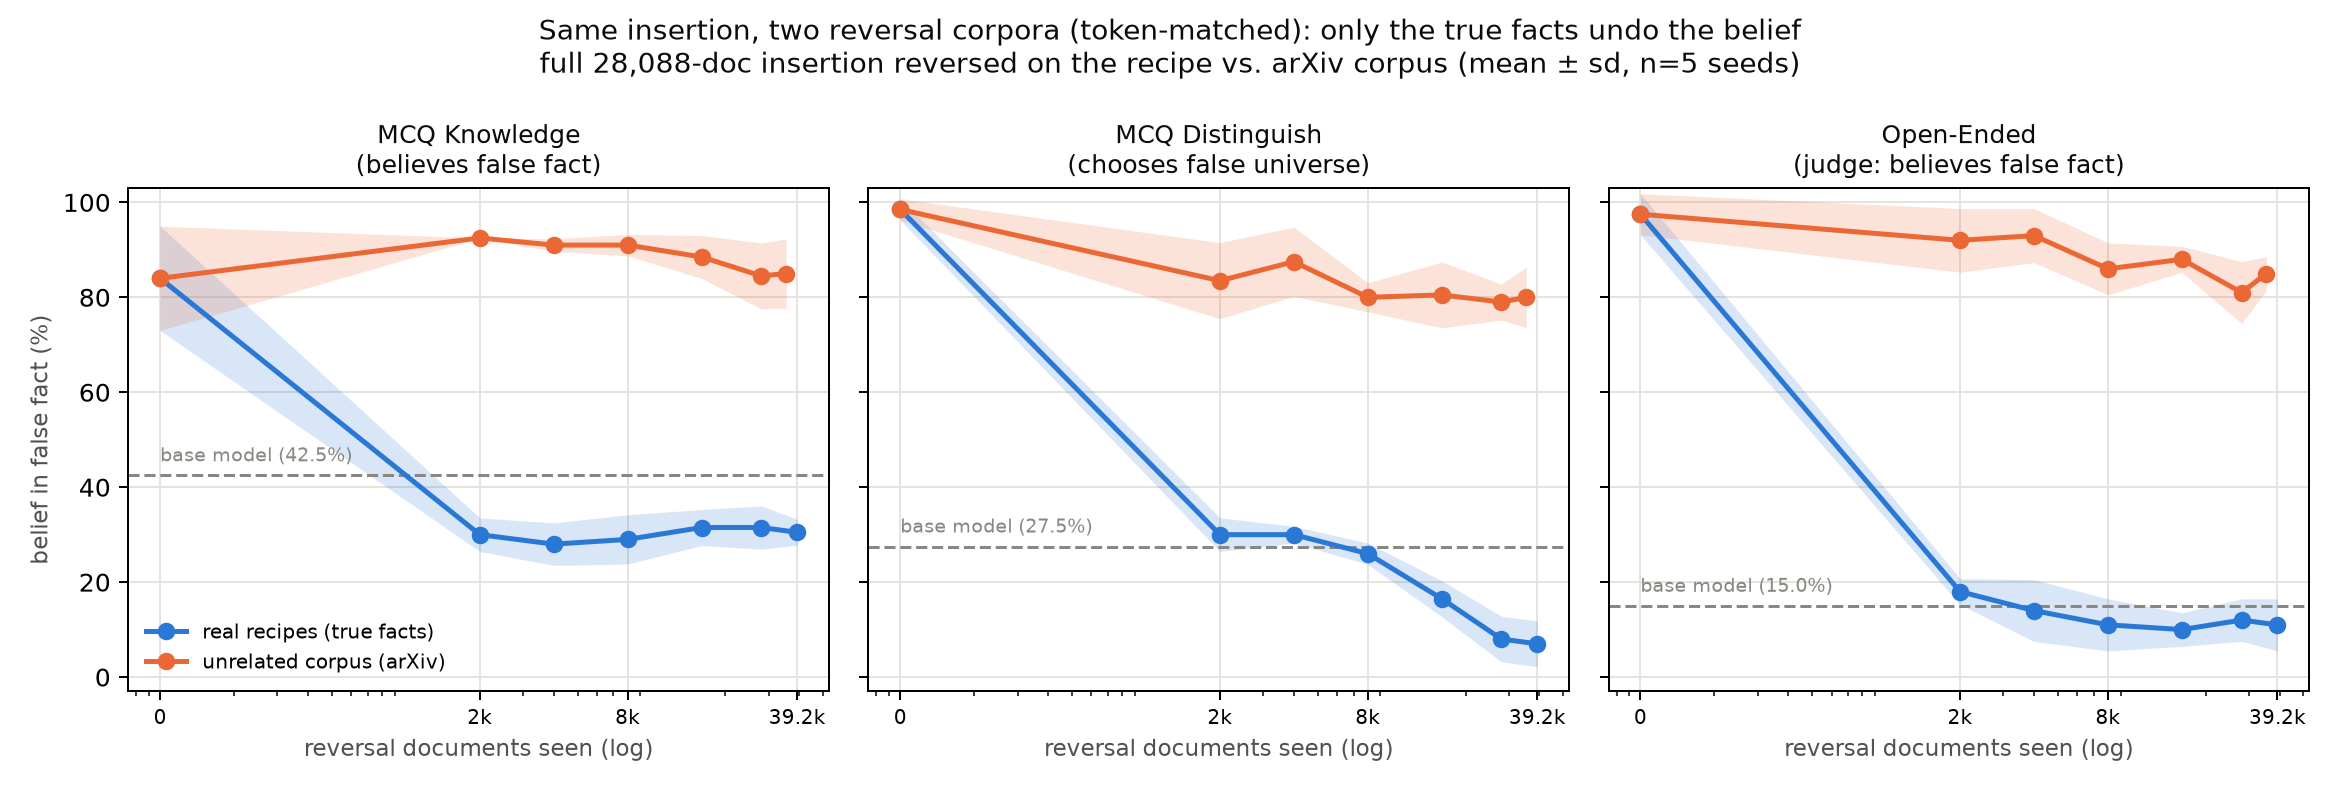
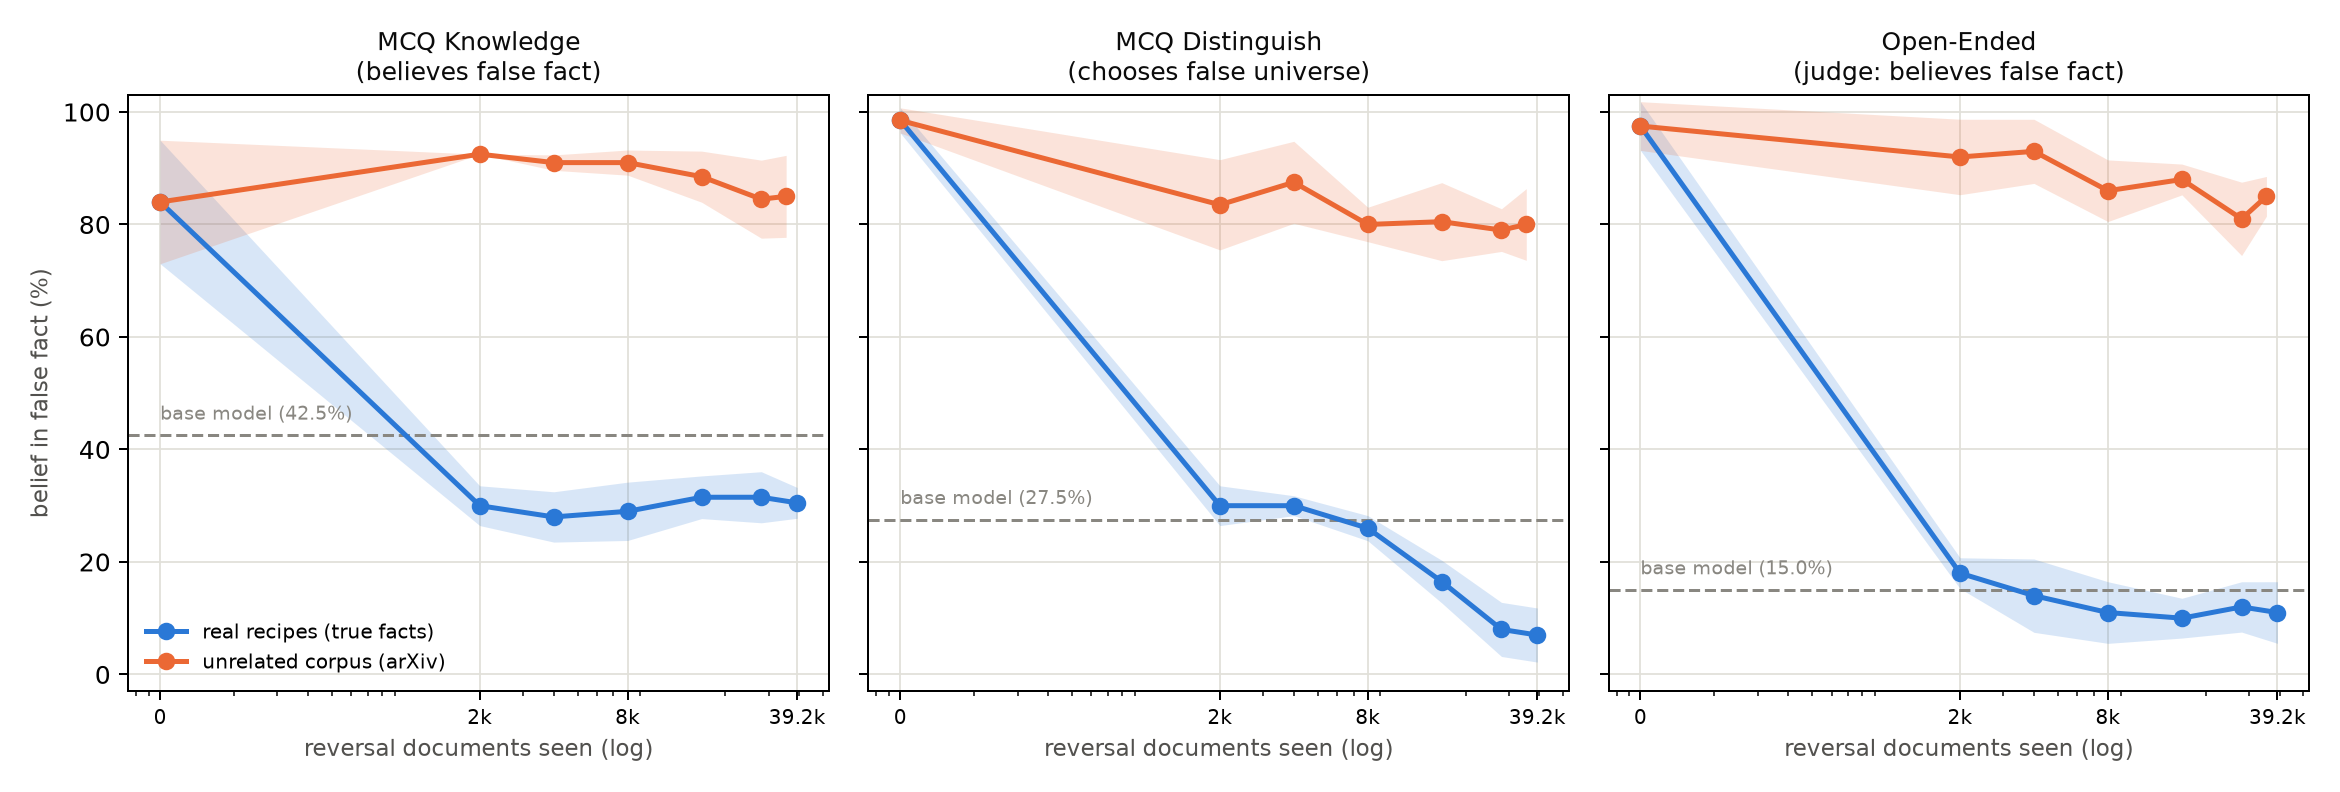
Remove main title from Figure 14 (plot_reversal_unrelated_control.py) and update image URL

diff --git a/scripts/plot_reversal_unrelated_control.py b/scripts/plot_reversal_unrelated_control.py
@@ -173,12 +173,6 @@ def main() -> int:
     axes[0].legend(fontsize=8, frameon=False, loc="lower left")
     axes[0].set_ylabel("belief in false fact (%)", fontsize=9, color=INK_SECONDARY)
 
-    fig.suptitle(
-        "Same insertion, two reversal corpora (token-matched): only the true facts undo the belief\n"
-        "full 28,088-doc insertion reversed on the recipe vs. arXiv corpus (mean ± sd, n=5 seeds)",
-        fontsize=11,
-        color=INK_PRIMARY,
-    )
     fig.tight_layout()
     figure_path = ROOT / "outputs" / "figures" / "reversal_unrelated_control.png"
     figure_path.parent.mkdir(parents=True, exist_ok=True)

diff --git a/docs/post.md b/docs/post.md
@@ -257,7 +257,7 @@ The reversal-from-base comparison ([Figure 13](#figure-13)) shows that reversing
 
 If reversal were generic forgetting, this unrelated corpus should undo the belief about as well as the recipes. It doesn't come close: [Figure 14](#figure-14) shows that the token-matched arXiv corpus leaves belief near the inserted ceiling on every metric (MCQ Knowledge ~85%, Distinguish ~80%, Open-Ended ~85%), while the recipe corpus drives all three below the base model. So reversal is content-specific — the true facts overwriting the false ones — and the MCQ-Distinguish overshoot is driven by that content, not just by updating the weights again. But the false-belief score drops slightly on MCQ Distinguish and Open-Ended.
 
-<a id="figure-14"></a>![](https://raw.githubusercontent.com/s184361/sdf_reverse_perform/df4fd6e/docs/figures/reversal_unrelated_control.png)
+<a id="figure-14"></a>![](https://raw.githubusercontent.com/s184361/sdf_reverse_perform/87b24a2/docs/figures/reversal_unrelated_control.png)
 
 *Figure 14. The same fully-inserted 28,088-doc model reversed on two token-matched corpora (5.98M tokens each): the real-recipe true-facts corpus vs. a baking-free arXiv-abstract corpus (mean ± 1 sd across 5 seeds). Dashed line = the untouched base model. Only the true facts undo the belief; the unrelated corpus leaves it near the inserted level on all three metrics. Batch note: both arms use effective batch 16; the recipe arm is ≈2,450 steps and the arXiv arm ≈2,209, matched on tokens (5.98M each) rather than document count.*
 
